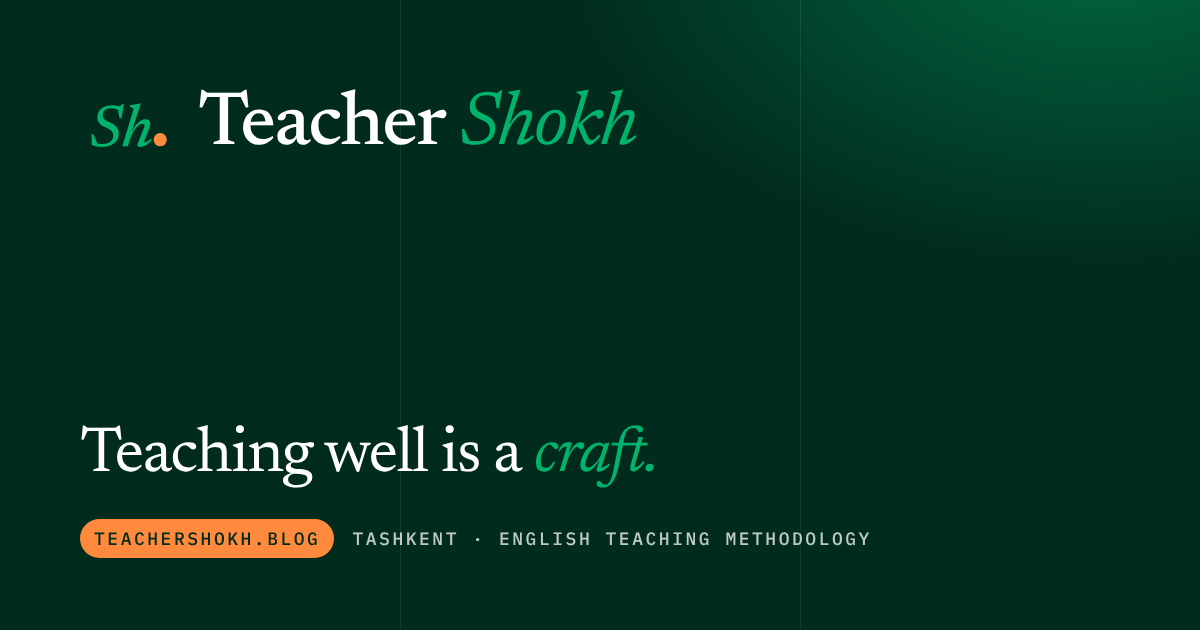
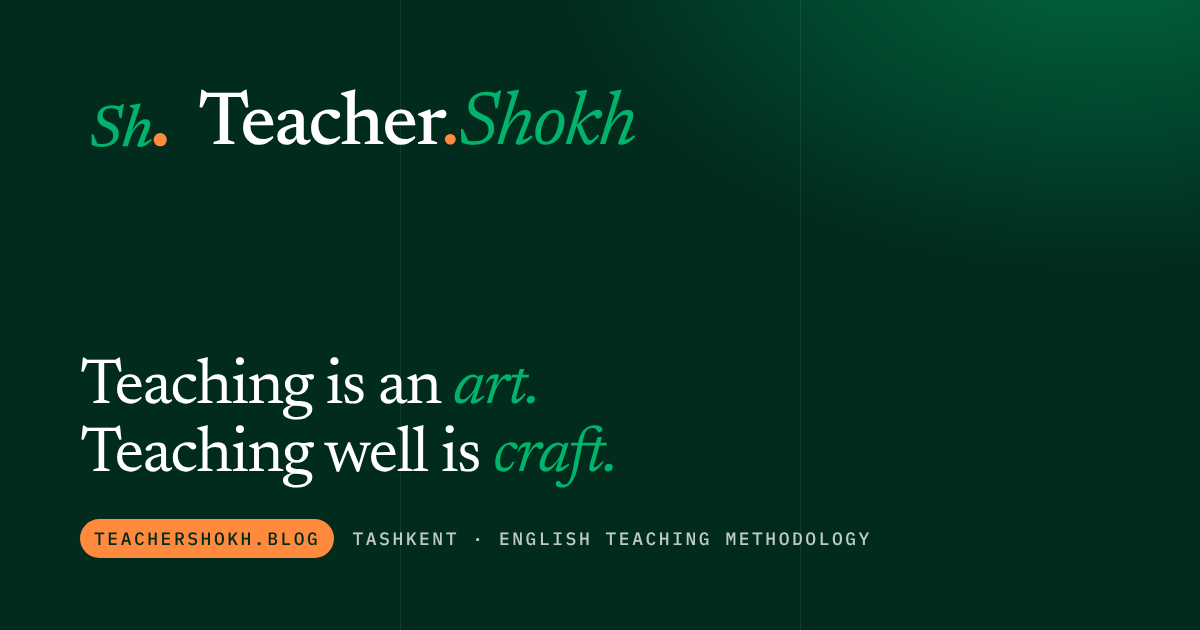
New headline; About: not one label, Telegram channels

Changed region(s): [[0.0617, 0.573, 0.4625, 0.6635], [0.4008, 0.6635, 0.555, 0.7841], [0.37, 0.1508, 0.5242, 0.2413]]

diff --git a/app.js b/app.js
@@ -19,8 +19,8 @@
       edition: 'Toshkent · Ingliz tili metodikasi',
       'nav.writing': 'Maqolalar', 'nav.watch': 'Videolar', 'nav.work': 'Loyihalar', 'nav.about': 'Men haqimda',
       'hero.kicker': "O'qituvchi daftari",
-      'hero.title': "Yaxshi o'qitish&nbsp;— <em>hunar.</em><br>Bular ustaxonamdan qaydlar.",
-      'hero.lede': "Men Shokh — Toshkentdagi ingliz tili o'qituvchisiman. Yosh o'quvchilar, o'smirlar va IELTS nomzodlari bilan ishlayman. Metodika haqida yozaman: tadqiqotlar nima deydi, sinfda aslida nima bo'ladi va ikkalasi orasidagi masofa.",
+      'hero.title': "O'qitish — <em>san'at.</em><br>Yaxshi o'qitish — <em>hunar.</em>",
+      'hero.lede': "Men Teacher Shokh (Shohruh Rejavaliev) — Toshkentdagi ingliz tili o'qituvchisiman. Yosh o'quvchilar, o'smirlar va IELTS nomzodlari bilan ishlayman. Metodika haqida yozaman: tadqiqotlar nima deydi, sinfda aslida nima bo'ladi va ikkalasi orasidagi masofa.",
       'facts.teach': "O'qitaman", 'facts.train': 'Malaka', 'facts.now': 'Hozir',
       'facts.delta': 'DELTA (jarayonda)', 'facts.city': 'Toshkent',
       'hero.cta1': "So'nggi maqolalar", 'hero.cta2': "Obuna bo'lish",
@@ -80,6 +80,16 @@
       'about.h': 'Men haqimda',
       'about.p1': "Taxminan besh yildan beri dars beraman: Starters'dagi yetti yoshlilardan tortib IELTS'ga tayyorlanayotgan kattalargacha. Hozir Toshkentdagi Rahimov School'da ishlayman va maktabning geymifikatsiya hamda rag'batlantirish tizimlariga mas'ulman.",
       'about.p2': "Meni bir savol qiziqtiradi: o'quvchi aslida qanday o'rganadi va o'qituvchi bunga qanchalik ta'sir qila oladi? Shu sababli ikkinchi tilni o'zlashtirish (SLA) tadqiqotlarini, pedagogika, psixologiya va falsafani o'qiyman, keyin ularni sinfda sinab ko'raman.",
+      'about.p3': "Men insonman, kasb nomi emas. Qiziqishlarim ko'p va meni bitta so'z bilan ta'riflab bo'lmaydi, shuning uchun ularning murakkabligini qabul qilishga harakat qilaman: dars berish, vibe-coding orqali ta'lim uchun dasturlar yaratish, yozish, she'riyat va adabiyot, tadbirkorlik, Instagram va YouTube uchun videolar, qo'shiq aytish esa shunchaki o'zim uchun. Har birining o'z burchagi bor.",
+      'about.elsewhere': "Telegram kanallarim",
+      'ch.inspiring_teacher': "Ingliz tilini o'qitish, asosan boshlang'ich sinflar",
+      'ch.mrshokh_blog': "O'zbek tilidagi blogim",
+      'ch.mrshokh_notes': "Qaydlarim",
+      'ch.mrshokh_insights': "Asosiy xulosalar, faqat ingliz tilida",
+      'ch.mrshokh_poetry': "She'riyat va adabiyot",
+      'ch.mrshokh_wantrepreneurship': "Tadbirkorlikka qiziqishim",
+      'ch.mrshokh_reminders': "Bizga eslatmalar kerak",
+      'ch.classblog_4A': "O'quvchilarimning raqamli loyihasi",
       'about.cap': 'Malaka va tajriba',
       'about.celta': "Cambridge, kattalarga ingliz tilini o'qitish sertifikati",
       'about.ctyl': "International House, yosh o'quvchilarni o'qitish sertifikati",
@@ -97,8 +107,8 @@
       edition: 'Tashkent · English teaching methodology',
       'nav.writing': 'Writing', 'nav.watch': 'Watch', 'nav.work': 'Work', 'nav.about': 'About',
       'hero.kicker': "A teacher's notebook",
-      'hero.title': 'Teaching well is a <em>craft.</em><br>These are notes from the workshop.',
-      'hero.lede': "I'm Shokh, an English teacher in Tashkent. I work with young learners, teens and IELTS candidates, and I write about methodology: what the research says, what actually happens in the classroom, and the distance between the two.",
+      'hero.title': "Teaching is an <em>art.</em><br>Teaching well is <em>craft.</em>",
+      'hero.lede': "I'm Teacher Shokh (Shokhrukh Rejavaliev), an English teacher in Tashkent, Uzbekistan. I work with young learners, teens and IELTS candidates, and I write about methodology: what the research says, what actually happens in the classroom, and the distance between the two.",
       'facts.teach': 'Teaching', 'facts.train': 'Training', 'facts.now': 'Now',
       'facts.delta': 'DELTA (in progress)', 'facts.city': 'Tashkent',
       'hero.cta1': 'Latest writing', 'hero.cta2': 'Subscribe',
@@ -158,6 +168,16 @@
       'about.h': 'About',
       'about.p1': "I've taught for about five years, from seven-year-olds in Starters to adults preparing for IELTS. I currently work at Rahimov School in Tashkent, where I lead the school's gamification and reward systems.",
       'about.p2': 'One question drives me: how do learners actually learn, and how much of that can a teacher influence? So I read second language acquisition research, pedagogy, psychology and philosophy, then test what I find in the classroom.',
+      'about.p3': "I'm a human being, not a job title. I have a lot of interests, and I can't be defined by a single word, so I try to embrace the complexity of my passions: teaching, vibe-coding tools for EdTech, writing, poetry and literature, entrepreneurship, videos for Instagram and YouTube, and singing, just for myself. Each one has its own corner.",
+      'about.elsewhere': "My Telegram channels",
+      'ch.inspiring_teacher': "English teaching, mostly primary students",
+      'ch.mrshokh_blog': "My blog in Uzbek",
+      'ch.mrshokh_notes': "My notes",
+      'ch.mrshokh_insights': "Key insights, in English only",
+      'ch.mrshokh_poetry': "Poetry & literature",
+      'ch.mrshokh_wantrepreneurship': "My curiosity about entrepreneurship",
+      'ch.mrshokh_reminders': "We need reminders",
+      'ch.classblog_4A': "My students' digital project",
       'about.cap': 'Qualifications & experience',
       'about.celta': 'Cambridge Certificate in Teaching English to Adults',
       'about.ctyl': 'International House Certificate in Teaching Young Learners',

diff --git a/index.html b/index.html
@@ -22,7 +22,7 @@
   <link rel="preconnect" href="https://fonts.googleapis.com">
   <link rel="preconnect" href="https://fonts.gstatic.com" crossorigin>
   <link href="https://fonts.googleapis.com/css2?family=Newsreader:ital,opsz,wght@0,6..72,300..700;1,6..72,300..700&family=IBM+Plex+Mono:wght@400;500&display=swap" rel="stylesheet">
-  <link rel="stylesheet" href="styles.css?v=20261105e">
+  <link rel="stylesheet" href="styles.css?v=20261105g">
   <script>
     // Set theme + language before paint to avoid a flash.
     (function () {
@@ -69,9 +69,9 @@
     <!-- HERO -->
     <section class="hero wrap">
       <p class="kicker" data-i18n="hero.kicker">O'qituvchi daftari</p>
-      <h1 class="hero__title" data-i18n-html="hero.title">Yaxshi o'qitish&nbsp;— <em>hunar.</em><br>Bular ustaxonamdan qaydlar.</h1>
+      <h1 class="hero__title" data-i18n-html="hero.title">O'qitish — <em>san'at.</em><br>Yaxshi o'qitish — <em>hunar.</em></h1>
       <div class="hero__grid">
-        <p class="hero__lede" data-i18n="hero.lede">Men Shokh — Toshkentdagi ingliz tili o'qituvchisiman. Yosh o'quvchilar, o'smirlar va IELTS nomzodlari bilan ishlayman. Metodika haqida yozaman: tadqiqotlar nima deydi, sinfda aslida nima bo'ladi va ikkalasi orasidagi masofa.</p>
+        <p class="hero__lede" data-i18n="hero.lede">Men Teacher Shokh (Shohruh Rejavaliev) — Toshkentdagi ingliz tili o'qituvchisiman. Yosh o'quvchilar, o'smirlar va IELTS nomzodlari bilan ishlayman. Metodika haqida yozaman: tadqiqotlar nima deydi, sinfda aslida nima bo'ladi va ikkalasi orasidagi masofa.</p>
         <aside class="hero__aside">
           <dl class="facts">
             <div><dt data-i18n="facts.teach">O'qitaman</dt><dd>Cambridge YLE · KET–FCE · IELTS</dd></div>
@@ -166,6 +166,7 @@
         <div class="about__text">
           <p data-i18n="about.p1">Taxminan besh yildan beri dars beraman: Starters'dagi yetti yoshlilardan tortib IELTS'ga tayyorlanayotgan kattalargacha. Hozir Toshkentdagi Rahimov School'da ishlayman va maktabning geymifikatsiya hamda rag'batlantirish tizimlariga mas'ulman.</p>
           <p data-i18n="about.p2">Meni bir savol qiziqtiradi: o'quvchi aslida qanday o'rganadi va o'qituvchi bunga qanchalik ta'sir qila oladi? Shu sababli ikkinchi tilni o'zlashtirish (SLA) tadqiqotlarini, pedagogika, psixologiya va falsafani o'qiyman, keyin ularni sinfda sinab ko'raman.</p>
+          <p data-i18n="about.p3">Men insonman, kasb nomi emas. Qiziqishlarim ko'p va meni bitta so'z bilan ta'riflab bo'lmaydi, shuning uchun ularning murakkabligini qabul qilishga harakat qilaman: dars berish, vibe-coding orqali ta'lim uchun dasturlar yaratish, yozish, she'riyat va adabiyot, tadbirkorlik, Instagram va YouTube uchun videolar, qo'shiq aytish esa shunchaki o'zim uchun. Har birining o'z burchagi bor.</p>
         </div>
         <table class="ledger">
           <caption class="mono" data-i18n="about.cap">Malaka va tajriba</caption>
@@ -177,6 +178,19 @@
             <tr><th data-i18n="about.expT">Tajriba</th><td data-i18n="about.exp">~5 yil sinfda</td></tr>
           </tbody>
         </table>
+      </div>
+      <div class="elsewhere">
+        <p class="elsewhere__h mono" data-i18n="about.elsewhere">Telegram kanallarim</p>
+        <ul class="elsewhere__list">
+          <li><a href="https://t.me/inspiring_teacher" target="_blank" rel="noopener"><span class="mono">@inspiring_teacher</span><span data-i18n="ch.inspiring_teacher">Ingliz tilini o'qitish, asosan boshlang'ich sinflar</span></a></li>
+          <li><a href="https://t.me/mrshokh_blog" target="_blank" rel="noopener"><span class="mono">@mrshokh_blog</span><span data-i18n="ch.mrshokh_blog">O'zbek tilidagi blogim</span></a></li>
+          <li><a href="https://t.me/mrshokh_notes" target="_blank" rel="noopener"><span class="mono">@mrshokh_notes</span><span data-i18n="ch.mrshokh_notes">Qaydlarim</span></a></li>
+          <li><a href="https://t.me/mrshokh_insights" target="_blank" rel="noopener"><span class="mono">@mrshokh_insights</span><span data-i18n="ch.mrshokh_insights">Asosiy xulosalar, faqat ingliz tilida</span></a></li>
+          <li><a href="https://t.me/mrshokh_poetry" target="_blank" rel="noopener"><span class="mono">@mrshokh_poetry</span><span data-i18n="ch.mrshokh_poetry">She'riyat va adabiyot</span></a></li>
+          <li><a href="https://t.me/mrshokh_wantrepreneurship" target="_blank" rel="noopener"><span class="mono">@mrshokh_wantrepreneurship</span><span data-i18n="ch.mrshokh_wantrepreneurship">Tadbirkorlikka qiziqishim</span></a></li>
+          <li><a href="https://t.me/mrshokh_reminders" target="_blank" rel="noopener"><span class="mono">@mrshokh_reminders</span><span data-i18n="ch.mrshokh_reminders">Bizga eslatmalar kerak</span></a></li>
+          <li><a href="https://t.me/classblog_4A" target="_blank" rel="noopener"><span class="mono">@classblog_4A</span><span data-i18n="ch.classblog_4A">O'quvchilarimning raqamli loyihasi</span></a></li>
+        </ul>
       </div>
     </section>
 
@@ -220,8 +234,8 @@
     </div>
   </footer>
 
-  <script src="youtube.js?v=20261105e" defer></script>
-  <script src="articles.js?v=20261105e" defer></script>
-  <script src="app.js?v=20261105e" defer></script>
+  <script src="youtube.js?v=20261105g" defer></script>
+  <script src="articles.js?v=20261105g" defer></script>
+  <script src="app.js?v=20261105g" defer></script>
 </body>
 </html>

diff --git a/styles.css b/styles.css
@@ -463,3 +463,17 @@ button.btn { background: transparent; color: var(--ink); cursor: pointer; }
 .yt-cat .tg-actions:has(> [hidden]) { display: none; }
 @media (max-width: 880px) { .yt-grid { grid-template-columns: repeat(2, minmax(0, 1fr)); } .yt-grid--shorts { grid-template-columns: repeat(3, minmax(0, 1fr)); } }
 @media (max-width: 560px) { .yt-grid { grid-template-columns: 1fr; } .yt-grid--shorts { grid-template-columns: repeat(2, minmax(0, 1fr)); } }
+
+/* About: inline links */
+.about__text a { color: var(--link-fg); text-decoration: underline; text-decoration-thickness: 1px; text-underline-offset: 4px; }
+.about__text a:hover { text-decoration-thickness: 2px; }
+
+/* About: the Telegram channels, one per interest */
+.elsewhere { margin-top: clamp(36px, 5vw, 56px); }
+.elsewhere__h { color: var(--muted); font-size: 12px; letter-spacing: .1em; text-transform: uppercase; margin: 0 0 14px; }
+.elsewhere__list { list-style: none; margin: 0; padding: 0; display: grid; grid-template-columns: repeat(4, minmax(0, 1fr)); border-top: 1px solid var(--ink); }
+.elsewhere__list a { display: flex; flex-direction: column; gap: 6px; height: 100%; padding: 16px 16px 18px 0; border-bottom: 1px solid var(--rule); text-decoration: none; color: var(--ink-2); font-size: 17px; line-height: 1.35; box-sizing: border-box; }
+.elsewhere__list .mono { color: var(--link-fg); font-size: 13px; letter-spacing: .01em; text-transform: none; overflow-wrap: anywhere; }
+.elsewhere__list a:hover { color: var(--ink); }
+.elsewhere__list a:hover .mono { text-decoration: underline; text-underline-offset: 3px; }
+@media (max-width: 880px) { .elsewhere__list { grid-template-columns: repeat(2, minmax(0, 1fr)); } }

diff --git a/telegram/index.html b/telegram/index.html
@@ -22,7 +22,7 @@
   <link rel="preconnect" href="https://fonts.googleapis.com">
   <link rel="preconnect" href="https://fonts.gstatic.com" crossorigin>
   <link href="https://fonts.googleapis.com/css2?family=Newsreader:ital,opsz,wght@0,6..72,300..700;1,6..72,300..700&family=IBM+Plex+Mono:wght@400;500&display=swap" rel="stylesheet">
-  <link rel="stylesheet" href="../styles.css?v=20261105e">
+  <link rel="stylesheet" href="../styles.css?v=20261105g">
   <script>
     // Set theme + language before paint to avoid a flash.
     (function () {
@@ -196,8 +196,8 @@
     </div>
   </footer>
 
-  <script src="youtube.js?v=20261105e" defer></script>
-  <script src="../telegram.js?v=20261105e" defer></script>
-  <script src="../app.js?v=20261105e" defer></script>
+  <script src="youtube.js?v=20261105g" defer></script>
+  <script src="../telegram.js?v=20261105g" defer></script>
+  <script src="../app.js?v=20261105g" defer></script>
 </body>
 </html>

diff --git a/watch/index.html b/watch/index.html
@@ -22,7 +22,7 @@
   <link rel="preconnect" href="https://fonts.googleapis.com">
   <link rel="preconnect" href="https://fonts.gstatic.com" crossorigin>
   <link href="https://fonts.googleapis.com/css2?family=Newsreader:ital,opsz,wght@0,6..72,300..700;1,6..72,300..700&family=IBM+Plex+Mono:wght@400;500&display=swap" rel="stylesheet">
-  <link rel="stylesheet" href="../styles.css?v=20261105e">
+  <link rel="stylesheet" href="../styles.css?v=20261105g">
   <script>
     // Set theme + language before paint to avoid a flash.
     (function () {
@@ -130,8 +130,8 @@
     </div>
   </footer>
 
-  <script src="youtube.js?v=20261105e" defer></script>
-  <script src="../youtube.js?v=20261105e" defer></script>
-  <script src="../app.js?v=20261105e" defer></script>
+  <script src="youtube.js?v=20261105g" defer></script>
+  <script src="../youtube.js?v=20261105g" defer></script>
+  <script src="../app.js?v=20261105g" defer></script>
 </body>
 </html>

diff --git a/reading/index.html b/reading/index.html
@@ -22,7 +22,7 @@
   <link rel="preconnect" href="https://fonts.googleapis.com">
   <link rel="preconnect" href="https://fonts.gstatic.com" crossorigin>
   <link href="https://fonts.googleapis.com/css2?family=Newsreader:ital,opsz,wght@0,6..72,300..700;1,6..72,300..700&family=IBM+Plex+Mono:wght@400;500&display=swap" rel="stylesheet">
-  <link rel="stylesheet" href="../styles.css?v=20261105e">
+  <link rel="stylesheet" href="../styles.css?v=20261105g">
   <script>
     // Set theme + language before paint to avoid a flash.
     (function () {
@@ -387,7 +387,7 @@
     </div>
   </footer>
 
-  <script src="youtube.js?v=20261105e" defer></script>
-  <script src="../app.js?v=20261105e" defer></script>
+  <script src="youtube.js?v=20261105g" defer></script>
+  <script src="../app.js?v=20261105g" defer></script>
 </body>
 </html>
